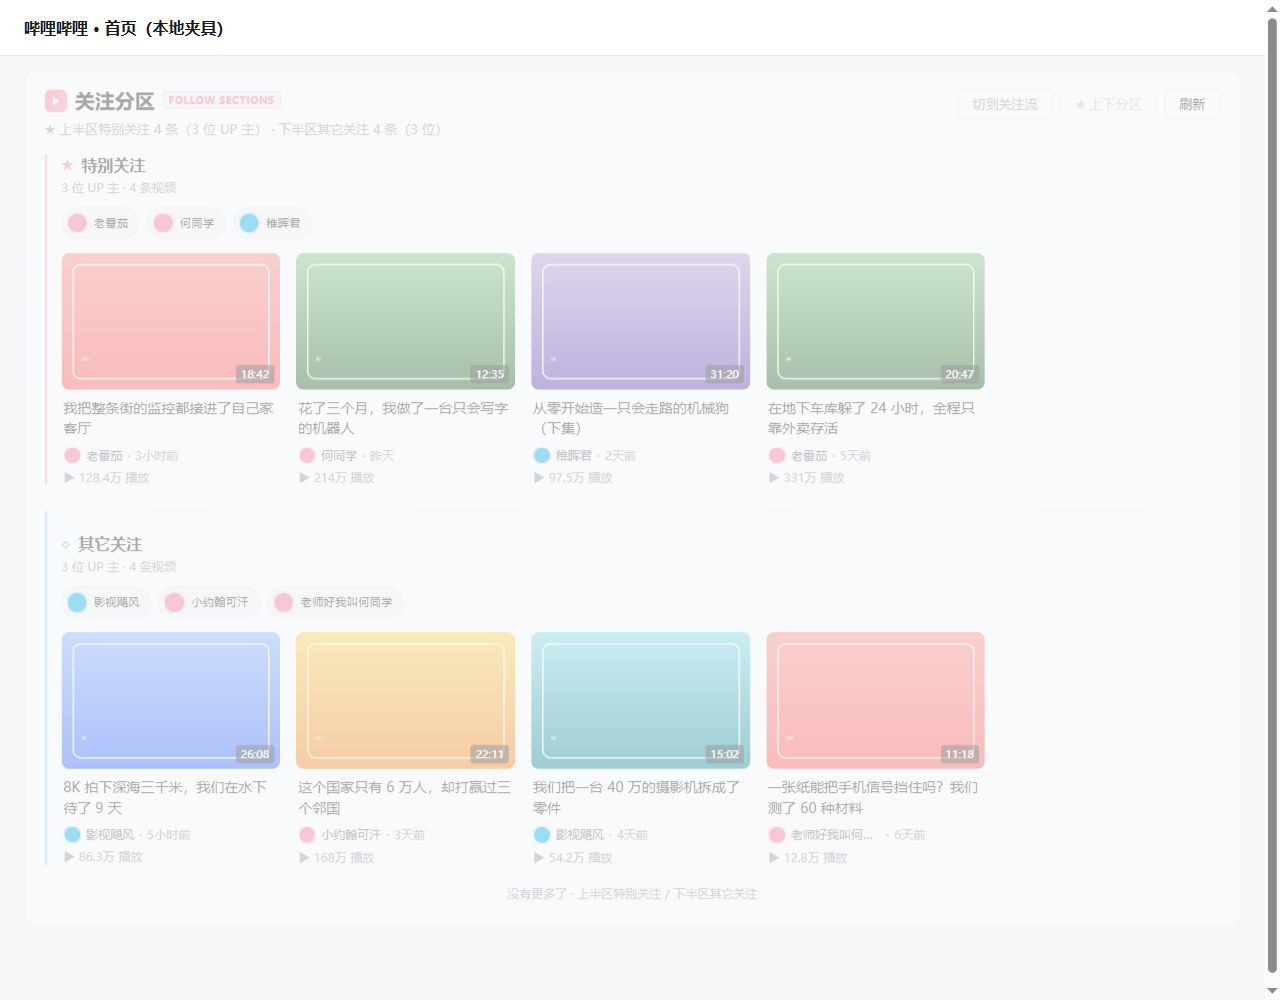
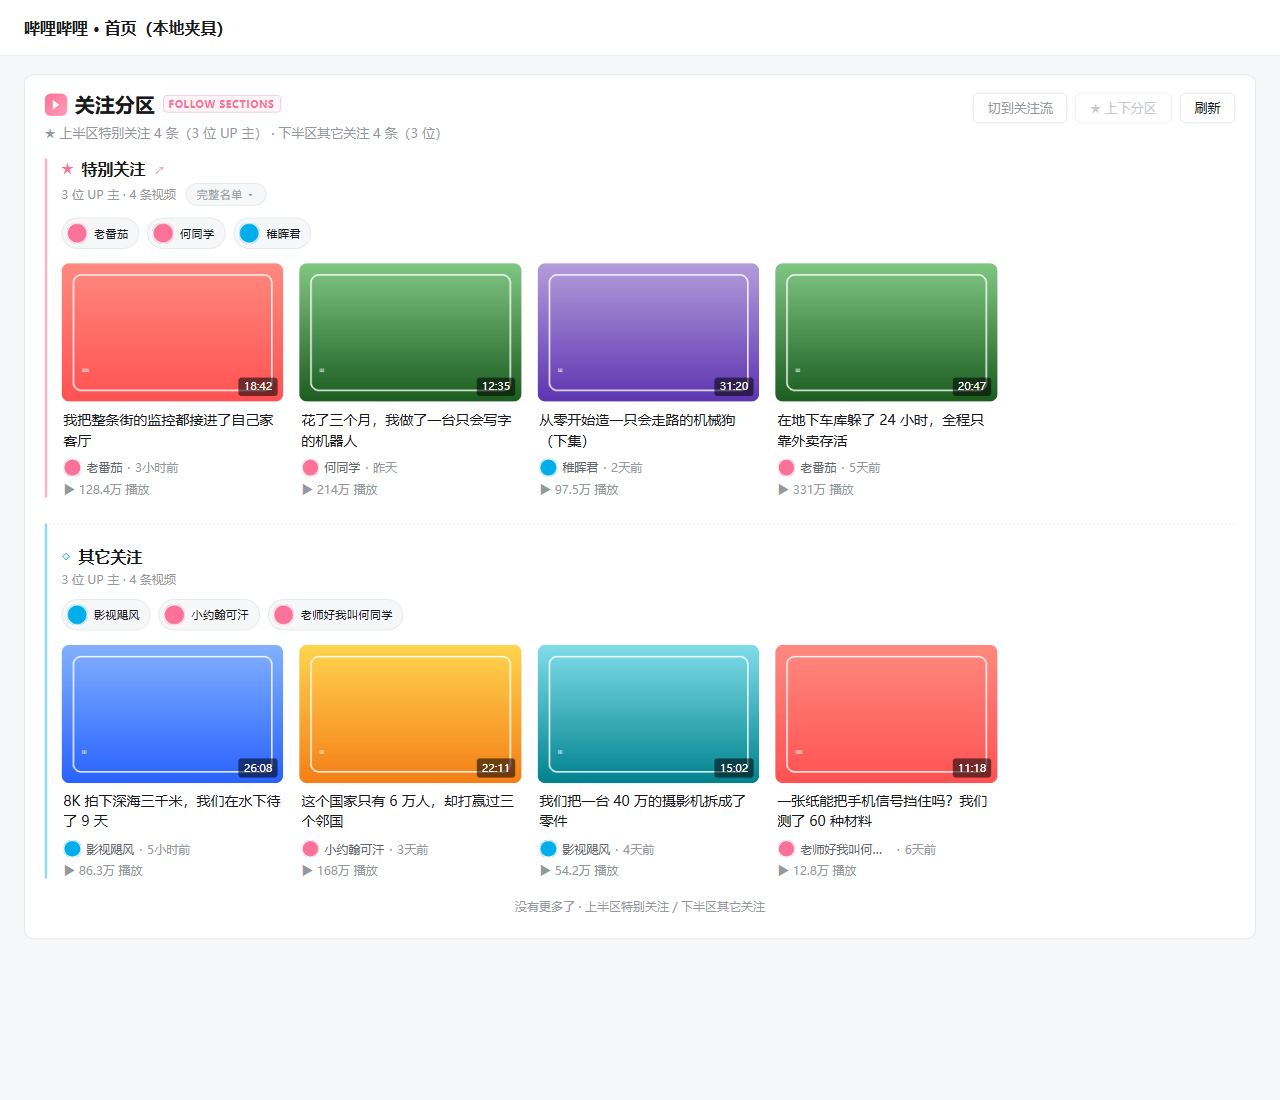
feat(v1.2.1): 点特别关注栏目直达列表 + 完整名单浮层
- 上半区标题改为可点链接，新标签打开 B 站关注管理页特别关注分组 tagid=-10（UID 取自登录态）
- 新增「完整名单」按钮：本地缓存渲染全部特别关注 UP 主，零额外请求，点头像进空间
- 官方页未自动选中分组时的兜底；空态给设置引导与官方入口
- 链接 target/rel/aria-label + 键盘可聚焦，其它关注区标题保持不可点
- 22 项 CDP 断言全过、0 报错；README/CHANGELOG/截图同步

diff --git a/feed.js b/feed.js
@@ -20,7 +20,7 @@
   var IS_DEV = /^(127\.0\.0\.1|localhost)$/.test(location.hostname) && /[?&]dev=1/.test(location.search);
   if (!IS_HOME && !IS_DEV) return;
 
-  var FEED_VERSION = '1.2.0';          // 与 manifest.json 保持一致，供 popup 做版本握手
+  var FEED_VERSION = '1.2.1';          // 与 manifest.json 保持一致，供 popup 做版本握手
   var CFG_KEY = 'bfonly_cfg';
   var FOLLOW_KEY = 'bfonly_following';
   var CACHE_TTL = 12 * 60 * 60 * 1000;  // 关注列表缓存 12 小时
@@ -401,6 +401,67 @@
 
   /* ---------------- 分区模式：上★特别关注 / 下其它关注 ---------------- */
 
+  /* B 站「特别关注」是内置分组 tagid=-10（/x/relation/tags、/x/relation/tag）。
+   * 关注管理页在 space.bilibili.com，不在本扩展 content_scripts 匹配范围，
+   * 跳转后不会被自己的面板接管。mid 来自 getNav()，即当前登录账号。 */
+  function specialListUrl() {
+    var mid = following && following.mid ? String(following.mid) : '';
+    if (!mid) return 'https://space.bilibili.com/';
+    return 'https://space.bilibili.com/' + encodeURIComponent(mid) + '/relation/follow?tagid=-10';
+  }
+
+  /* 完整特别关注名单：following.list 已在缓存里，零额外请求。
+   * 官方页面若没自动选中分组，这里仍给出准确名单，不会出现「点了没反应」。 */
+  function specialRoster() {
+    var box = h('div', 'bfonly-roster');
+    box.id = 'bfonly-roster';
+    box.hidden = true;
+
+    var ups = (following && following.list ? following.list : []).filter(function (u) {
+      return following.special && following.special.has(String(u.mid));
+    });
+
+    var bar = h('div', 'bfonly-roster-bar');
+    bar.appendChild(h('span', 'bfonly-roster-count',
+      '★ 特别关注 · ' + ups.length + ' 位 UP 主'));
+    var ext = h('a', 'bfonly-roster-ext', '在 B 站管理 ↗');
+    ext.href = specialListUrl();
+    ext.target = '_blank';
+    ext.rel = 'noopener noreferrer';
+    ext.title = '打开 B 站关注管理页的特别关注分组';
+    bar.appendChild(ext);
+    box.appendChild(bar);
+
+    if (!ups.length) {
+      box.appendChild(h('div', 'bfonly-roster-empty',
+        '还没有特别关注，点「在 B 站管理」去设置；设置后点面板「刷新」即可生效。'));
+      return box;
+    }
+
+    var list = h('div', 'bfonly-roster-list');
+    ups.forEach(function (u) {
+      var a = h('a', 'bfonly-roster-item');
+      a.href = 'https://space.bilibili.com/' + String(u.mid);
+      a.target = '_blank';
+      a.rel = 'noopener noreferrer';
+      a.title = u.uname || String(u.mid);
+      if (u.face) {
+        var img = h('img', 'bfonly-roster-face');
+        img.src = u.face;
+        img.loading = 'lazy';
+        img.referrerPolicy = 'no-referrer';
+        img.alt = u.uname || '';
+        a.appendChild(img);
+      } else {
+        a.appendChild(h('span', 'bfonly-roster-face ph', (u.uname || '?').slice(0, 1)));
+      }
+      a.appendChild(h('span', 'bfonly-roster-name', u.uname || String(u.mid)));
+      list.appendChild(a);
+    });
+    box.appendChild(list);
+    return box;
+  }
+
   /* 把同一条关注动态流按作者切成两份，不需要额外请求 */
   function splitItems() {
     var special = [], others = [];
@@ -450,16 +511,49 @@
     return out;
   }
 
-  function makeSection(kind, icon, title, sub, items, guide, emptyMsg) {
+  function makeSection(kind, icon, title, sub, items, guide, emptyMsg, opts) {
+    opts = opts || {};
     var sec = h('section', 'bfonly-section bfonly-section-' + kind);
     sec.id = 'bfonly-section-' + kind;
 
     var head = h('div', 'bfonly-section-head');
-    var t = h('div', 'bfonly-section-title');
-    t.appendChild(h('span', 'bfonly-section-icon', icon));
-    t.appendChild(h('span', '', title));
+    var t;
+    if (opts.href) {
+      // 整个栏目标题可点：新标签直达 B 站特别关注分组列表
+      t = h('a', 'bfonly-section-title bfonly-section-title-link');
+      t.href = opts.href;
+      t.target = '_blank';
+      t.rel = 'noopener noreferrer';
+      t.title = opts.hint || ('打开' + title + '列表');
+      t.setAttribute('aria-label', opts.hint || ('打开' + title + '列表'));
+      t.appendChild(h('span', 'bfonly-section-icon', icon));
+      t.appendChild(h('span', 'bfonly-section-title-text', title));
+      t.appendChild(h('span', 'bfonly-section-title-arrow', '↗'));
+    } else {
+      t = h('div', 'bfonly-section-title');
+      t.appendChild(h('span', 'bfonly-section-icon', icon));
+      t.appendChild(h('span', '', title));
+    }
     head.appendChild(t);
-    head.appendChild(h('div', 'bfonly-section-sub', sub));
+
+    var subRow = h('div', 'bfonly-section-subrow');
+    subRow.appendChild(h('div', 'bfonly-section-sub', sub));
+    if (opts.roster) {
+      var btn = h('button', 'bfonly-roster-btn', '完整名单 ▾');
+      btn.type = 'button';
+      btn.id = 'bfonly-roster-btn';
+      btn.setAttribute('aria-expanded', 'false');
+      btn.setAttribute('aria-controls', 'bfonly-roster');
+      btn.addEventListener('click', function () {
+        var r = document.getElementById('bfonly-roster');
+        if (!r) return;
+        r.hidden = !r.hidden;
+        btn.textContent = r.hidden ? '完整名单 ▾' : '收起名单 ▴';
+        btn.setAttribute('aria-expanded', r.hidden ? 'false' : 'true');
+      });
+      subRow.appendChild(btn);
+    }
+    head.appendChild(subRow);
 
     if (items.length) {
       var row = h('div', 'bfonly-up-list');
@@ -467,6 +561,8 @@
       head.appendChild(row);
     }
     sec.appendChild(head);
+
+    if (opts.roster) sec.appendChild(specialRoster());
 
     if (guide) {
       sec.appendChild(guide);
@@ -503,7 +599,8 @@
     gridEl.appendChild(makeSection('special', '★', '特别关注',
       (following && following.special ? following.special.size : 0) + ' 位 UP 主 · ' +
         s.special.length + ' 条视频',
-      s.special, guide, '特别关注的 UP 主最近没有发视频，过段时间再来看看。'));
+      s.special, guide, '特别关注的 UP 主最近没有发视频，过段时间再来看看。',
+      { href: specialListUrl(), hint: '打开 B 站「特别关注」分组列表（新标签）', roster: true }));
 
     gridEl.appendChild(makeSection('others', '◇', '其它关注',
       uniqueUps(s.others) + ' 位 UP 主 · ' + s.others.length + ' 条视频',

diff --git a/feed.css b/feed.css
@@ -206,6 +206,133 @@ html.bfonly-replace #i_cecream .bili-feed4 .bili-video-card-skeleton {
   color: var(--bfonly-sub);
 }
 
+/* 栏目标题可点：直达 B 站特别关注分组列表 */
+.bfonly-section-title-link {
+  width: fit-content;
+  text-decoration: none;
+  border-radius: 6px;
+  transition: color 0.16s ease;
+}
+
+.bfonly-section-title-link:hover { color: var(--bfonly-pink); }
+.bfonly-section-title-link:focus-visible {
+  outline: 2px solid var(--bfonly-pink);
+  outline-offset: 3px;
+}
+
+.bfonly-section-title-arrow {
+  font-size: 12px;
+  font-weight: 600;
+  color: var(--bfonly-pink);
+  opacity: 0.65;
+  transition: opacity 0.16s ease, transform 0.16s ease;
+}
+
+.bfonly-section-title-link:hover .bfonly-section-title-arrow,
+.bfonly-section-title-link:focus-visible .bfonly-section-title-arrow {
+  opacity: 1;
+  transform: translate(2px, -2px);
+}
+
+.bfonly-section-subrow {
+  display: flex;
+  align-items: center;
+  flex-wrap: wrap;
+  gap: 10px;
+}
+
+.bfonly-roster-btn {
+  appearance: none;
+  margin-top: 4px;
+  padding: 2px 10px;
+  border: 1px solid var(--bfonly-line);
+  border-radius: 999px;
+  background: var(--bfonly-soft);
+  color: var(--bfonly-sub);
+  font-size: 11.5px;
+  cursor: pointer;
+  transition: border-color 0.16s ease, color 0.16s ease;
+}
+
+.bfonly-roster-btn:hover { border-color: var(--bfonly-pink); color: var(--bfonly-pink); }
+.bfonly-roster-btn:focus-visible { outline: 2px solid var(--bfonly-pink); outline-offset: 2px; }
+
+/* 完整特别关注名单（本地缓存，零请求） */
+.bfonly-roster {
+  margin: 0 0 14px;
+  padding: 12px;
+  border: 1px solid var(--bfonly-line);
+  border-radius: 8px;
+  background: var(--bfonly-soft);
+}
+
+.bfonly-roster[hidden] { display: none; }
+
+.bfonly-roster-bar {
+  display: flex;
+  align-items: center;
+  justify-content: space-between;
+  gap: 10px;
+  margin-bottom: 10px;
+}
+
+.bfonly-roster-count { font-size: 12px; font-weight: 600; color: var(--bfonly-text); }
+
+.bfonly-roster-ext {
+  font-size: 11.5px;
+  color: var(--bfonly-pink);
+  text-decoration: none;
+  white-space: nowrap;
+}
+
+.bfonly-roster-ext:hover { text-decoration: underline; }
+
+.bfonly-roster-empty { font-size: 12px; color: var(--bfonly-sub); line-height: 1.6; }
+
+.bfonly-roster-list {
+  display: flex;
+  flex-wrap: wrap;
+  gap: 8px;
+  max-height: 220px;
+  overflow-y: auto;
+}
+
+.bfonly-roster-item {
+  display: inline-flex;
+  align-items: center;
+  gap: 6px;
+  max-width: 190px;
+  padding: 4px 10px 4px 4px;
+  border: 1px solid var(--bfonly-line);
+  border-radius: 999px;
+  background: var(--bfonly-bg);
+  color: var(--bfonly-text);
+  font-size: 11.5px;
+  text-decoration: none;
+  transition: border-color 0.16s ease, color 0.16s ease;
+}
+
+.bfonly-roster-item:hover { border-color: var(--bfonly-pink); color: var(--bfonly-pink); }
+
+.bfonly-roster-face {
+  width: 22px;
+  height: 22px;
+  border-radius: 50%;
+  object-fit: cover;
+  flex: 0 0 auto;
+}
+
+.bfonly-roster-face.ph {
+  display: inline-flex;
+  align-items: center;
+  justify-content: center;
+  background: var(--bfonly-pink);
+  color: #fff;
+  font-size: 11px;
+}
+
+.bfonly-roster-name { overflow: hidden; text-overflow: ellipsis; white-space: nowrap; }
+
 .bfonly-section-special { border-left: 3px solid rgba(251, 114, 153, 0.55); padding-left: 14px; }
 .bfonly-section-others  { border-left: 3px solid rgba(0, 174, 236, 0.45);  padding-left: 14px; }
 

diff --git a/popup.html b/popup.html
@@ -13,7 +13,7 @@
       <h1>只看关注</h1>
       <p>首页只留你关注的 UP 主</p>
     </div>
-    <span class="ver">v1.2.0</span>
+    <span class="ver">v1.2.1</span>
   </header>
 
   <div class="fixbar" id="fixBar" hidden>

diff --git a/CHANGELOG.md b/CHANGELOG.md
@@ -2,6 +2,27 @@
 
 本项目遵循 [语义化版本](https://semver.org/lang/zh-CN/)，格式参考 [Keep a Changelog](https://keepachangelog.com/zh-CN/1.1.0/)。
 
+## [1.2.1] — 2026-11-07
+
+### 新增：点「特别关注」栏目直达列表
+
+- 上下分区的**上半区标题「★ 特别关注」整块可点**，新标签打开 B 站关注管理页的特别关注分组：
+  `https://space.bilibili.com/{你的UID}/relation/follow?tagid=-10`，UID 取自 `getNav()`
+- 标题旁新增「**完整名单**」按钮 → 展开本地完整特别关注 UP 主名单（头像 + 名字，点头像进空间）。
+  数据来自已缓存的关注列表，**零额外请求**；名单顶部另有「在 B 站管理 ↗」入口
+- 链接带 `target="_blank"` / `rel="noopener noreferrer"` / `aria-label`，键盘可聚焦；
+  「其它关注」区标题保持不可点
+- 官方页若未自动选中分组参数，本地名单仍给出准确结果，不会「点了没反应」；
+  账号没设特别关注时，名单给引导文案与设置入口
+
+### 入口依据
+
+- 特别关注是 B 站内置分组 `tagid=-10`：`/x/relation/tags`、`/x/relation/tag?tagid=-10`，
+  与 v1.1.1 分组兜底逻辑一致
+- 关注页路径 `/relation/follow`：Greasy Fork 关注管理脚本、2026 年 B 站动态筛选助手教程均使用；
+  本次实测该 URL 返回 200
+- SPA 是否自动选中 `tagid=-10` 无法在未登录态验证，故加本地名单兜底，不把宝押在单一 URL 上
+
 ## [1.2.0] — 2026-11-06
 
 ### 新增：首页上下分区（默认模式）
@@ -120,3 +141,4 @@
 [1.1.0]: https://github.com/jokerlee0524-cloud/bilibili-follow-only/commits/main
 [1.1.1]: https://github.com/jokerlee0524-cloud/bilibili-follow-only/commits/main
 [1.2.0]: https://github.com/jokerlee0524-cloud/bilibili-follow-only/commits/main
+[1.2.1]: https://github.com/jokerlee0524-cloud/bilibili-follow-only/commits/main
